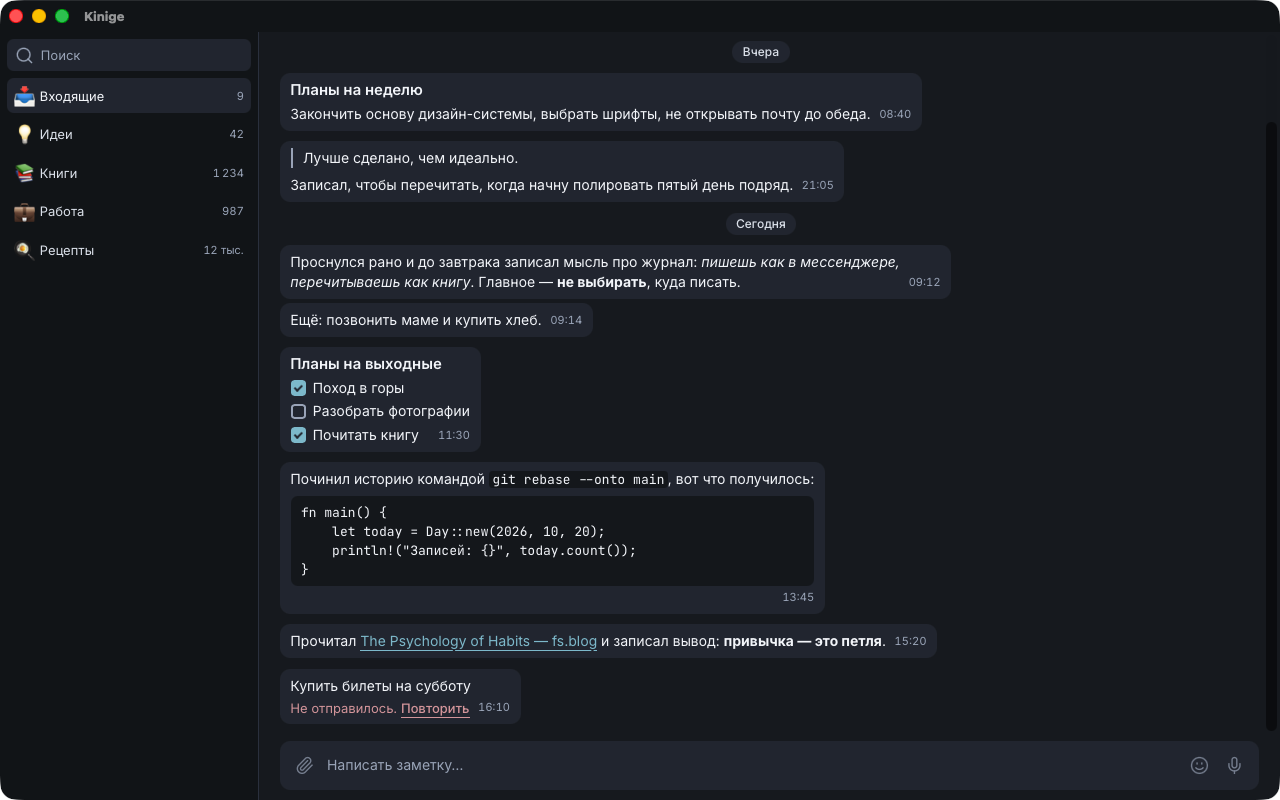
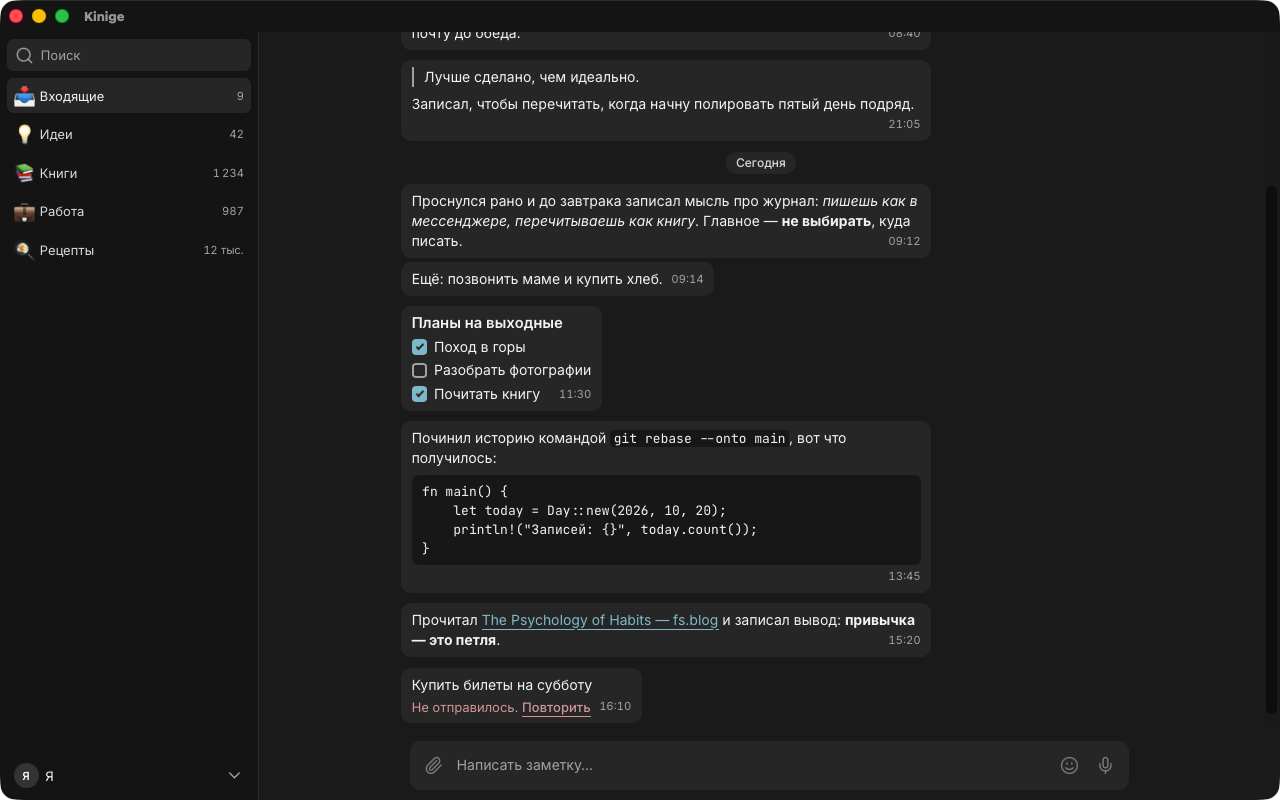
D1: screenshots for graphite palette, profile, column, send button, hover actions; contrast output; open questions for slice 1

diff --git a/docs/screens/D1/README.md b/docs/screens/D1/README.md
@@ -1,6 +1,6 @@
 # Скриншоты D1
 
-Снимки обновлены 20.10.2026 после правок по живому окну (Inter вместо Literata, темнее и белее, поля без обводки, счётчики записей). Файлы `main-window-*`, `typography.png`, `colors.png`, `sidebar-long-names*.png`, `composer-focus.png` сняты в Chromium из Storybook (dev) на macOS, 2× (2560 px по ширине); эталоны визуальных тестов (Linux-контейнер, Chromium) лежат в `web/tests/visual/stories.spec.ts-snapshots/` и считаются единственным источником для сравнения. `app-main-window.png` — настоящее окно Tauri (WKWebView, dev-режим, только окно, `scripts/screenshot-window.sh`).
+Снимки обновлены 20.10.2026 после правок по живому окну (Inter вместо Literata, нейтральный графит вместо Nord, колонка ленты по центру, строка профиля, поля без обводки с линией фокуса, кнопка «Отправить», действия под плашкой, счётчики записей). Файлы `main-window-*`, `typography.png`, `colors.png`, `sidebar-long-names*.png`, `composer-focus.png` сняты в Chromium из Storybook (dev) на macOS, 2× (2560 px по ширине); эталоны визуальных тестов (Linux-контейнер, Chromium) лежат в `web/tests/visual/stories.spec.ts-snapshots/` и считаются единственным источником для сравнения. `app-main-window.png` — настоящее окно Tauri (WKWebView, dev-режим, только окно, `scripts/screenshot-window.sh`).
 
 | Файл | Что |
 |---|---|
@@ -9,7 +9,10 @@
 | `main-window-text-13.png`, `main-window-text-15.png` | то же при размере текста записей 13 и 15 px (кандидаты; 14 px — `main-window.png`) |
 | `main-window-narrow.png` | узкое окно (ширина `layout.window.narrow`) |
 | `sidebar-long-names.png`, `sidebar-long-names-large.png` | сайдбар с длинными именами чатов: многоточие, счётчик справа, без горизонтальной прокрутки, обычный и крупный текст |
-| `composer-focus.png` | поле ввода в фокусе: без обводки и кольца, чуть светлее заливка, курсор акцентный |
+| `composer-focus.png` | поле ввода в фокусе: чуть светлее заливка и одна тонкая линия внутри цветом фокуса, снаружи кольца нет |
+| `composer-with-text.png`, `composer-send-focus.png` | поле с текстом: «микрофон» заменён круглой акцентной кнопкой «Отправить»; она же с фокусом с клавиатуры |
+| `profile-menu.png` | строка профиля внизу сайдбара с открытым меню «Настройки», «Экспорт», «О программе» (только вид) |
+| `message-actions-hover.png` | наведение на сообщение: ряд значков под плашкой (копировать, редактировать, задача, избранное, ещё) |
 | `typography.png` | «Основа / Типографика»: Inter (regular, italic, semibold, bold, bold italic), JetBrains Mono и компактная шкала |
 | `colors.png` | «Основа / Цвета»: роли палитры, образец плашек, таблица контраста |
 | `app-main-window.png` | настоящее окно Tauri с временным главным окном на `MockApi` |
